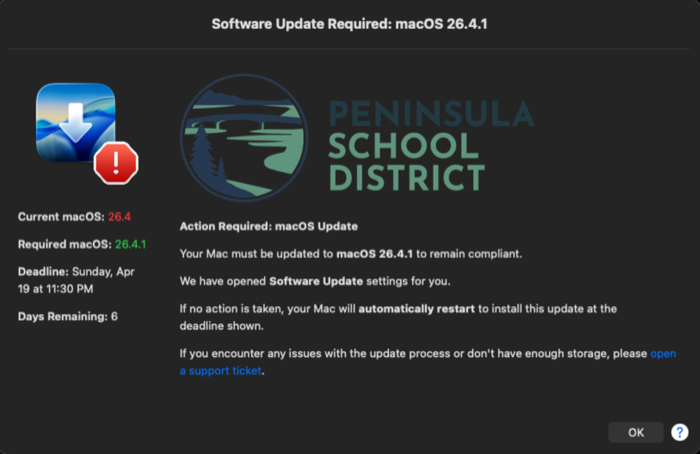
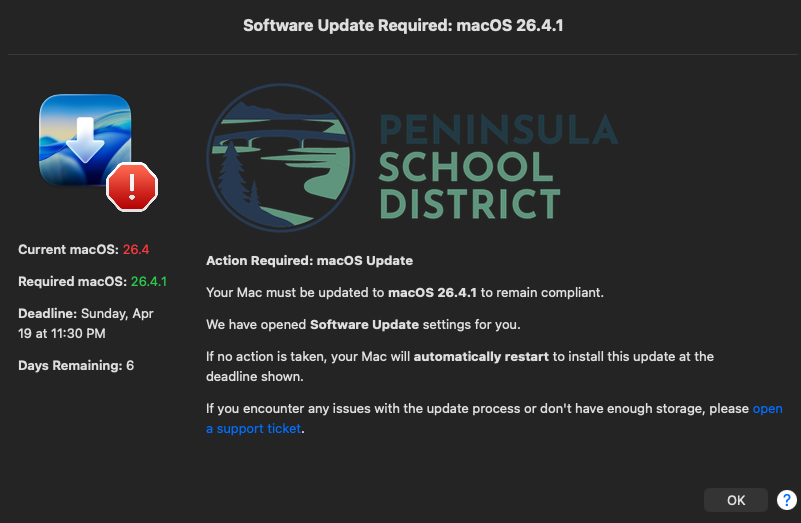
README: use sharper dialog screenshot at native 801px size

diff --git a/README.md b/README.md
@@ -5,7 +5,7 @@ release data with Apple's DDM enforcement state to show users the right
 version at the right time.
 
 <p align="center">
-  <img src="screenshots/dialog.png" alt="Update reminder dialog showing DDM enforcement" width="640">
+  <img src="screenshots/dialog.png" alt="Update reminder dialog showing DDM enforcement">
 </p>
 
 ## What it does
